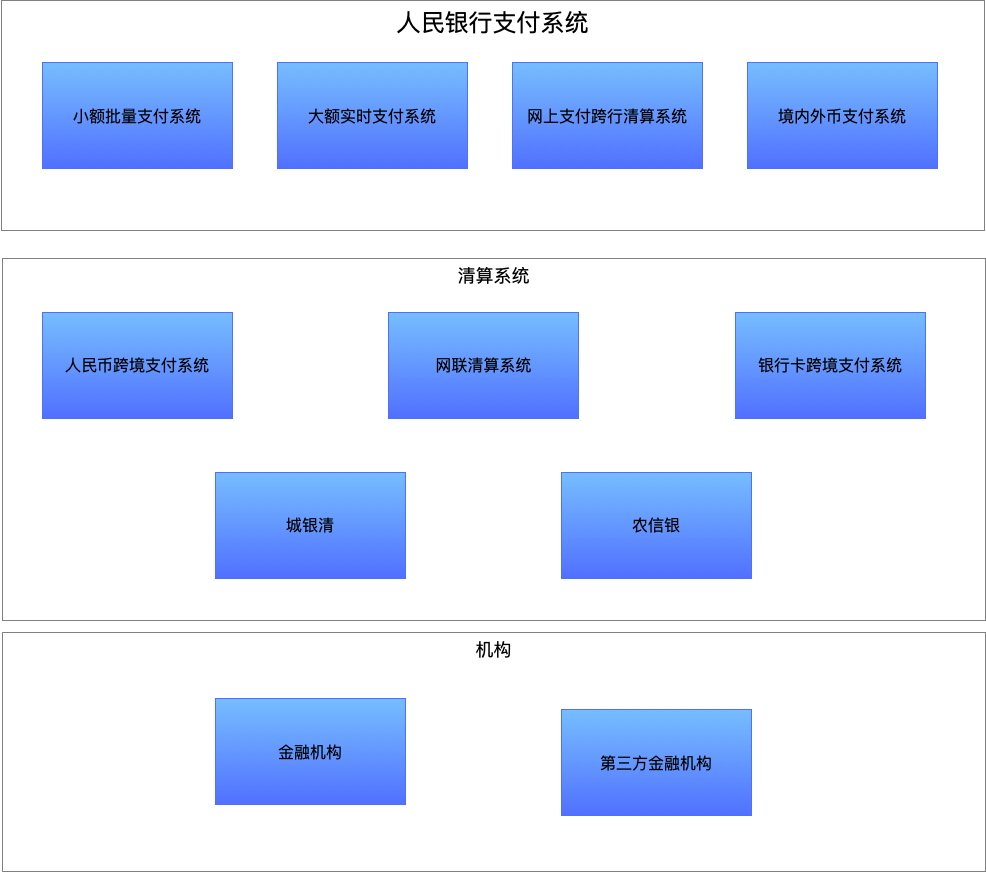
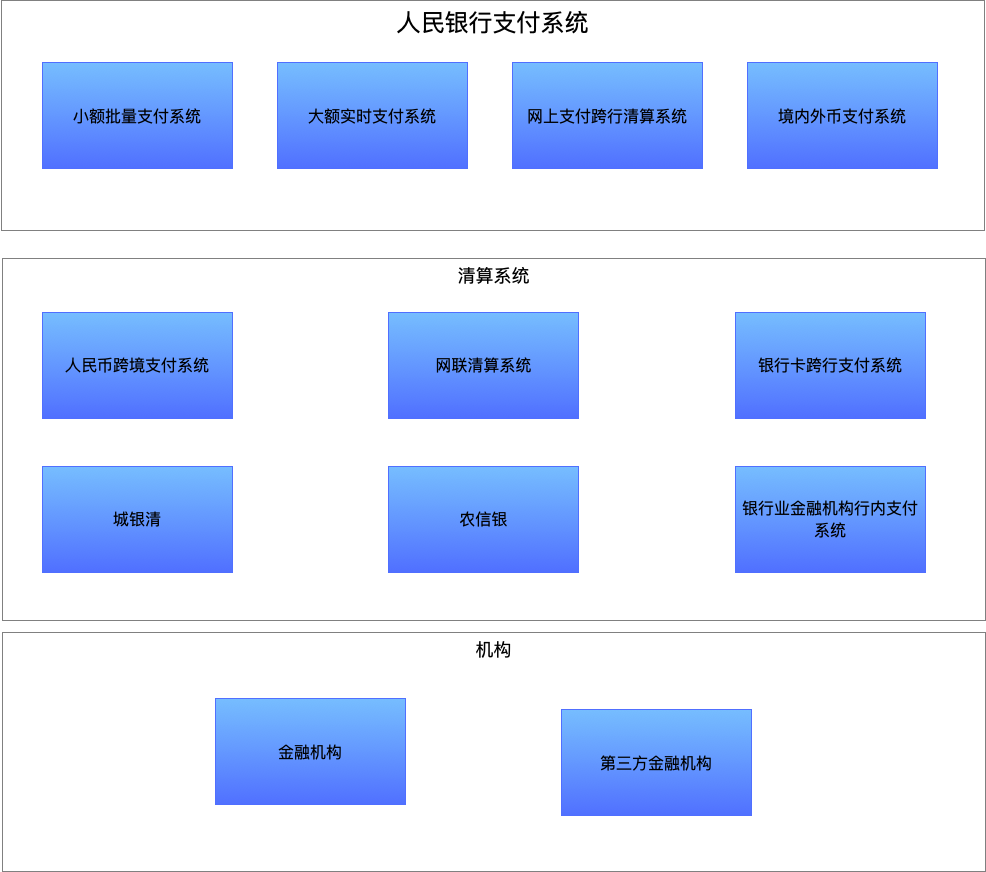
Site updated: 2020-09-09 20:58:25

Changed region(s): [[0.0304, 0.5264, 0.9432, 0.6812], [0.8215, 0.4025, 0.8519, 0.4335]]

diff --git a/Payment/payment-clearing-architecture/index.html b/Payment/payment-clearing-architecture/index.html
@@ -29,7 +29,7 @@
 <meta property="og:image" content="https://lianyouli.gitee.io/Payment/payment-clearing-architecture/%E6%94%AF%E4%BB%98%E7%B3%BB%E7%BB%9F.png">
 <meta property="og:image" content="https://lianyouli.gitee.io/Payment/payment-clearing-architecture/%E6%B8%85%E7%AE%97%E6%9C%BA%E6%9E%84%E6%9E%B6%E6%9E%84.png">
 <meta property="article:published_time" content="2020-08-23T14:50:25.000Z">
-<meta property="article:modified_time" content="2020-08-30T14:24:21.975Z">
+<meta property="article:modified_time" content="2020-09-09T12:56:48.538Z">
 <meta property="article:author" content="李联友">
 <meta property="article:tag" content="Payment">
 <meta name="twitter:card" content="summary">
@@ -209,7 +209,7 @@
                   <i class="far fa-calendar-check"></i>
                 </span>
                 <span class="post-meta-item-text">Edited on</span>
-                <time title="Modified: 2020-08-30 22:24:21" itemprop="dateModified" datetime="2020-08-30T22:24:21+08:00">2020-08-30</time>
+                <time title="Modified: 2020-09-09 20:56:48" itemprop="dateModified" datetime="2020-09-09T20:56:48+08:00">2020-09-09</time>
               </span>
             <span class="post-meta-item">
               <span class="post-meta-item-icon">
@@ -242,7 +242,51 @@
 <p>CIPS 是人民币国际化的重要部分</p>
 <p>其他清算系统也有美国运通一个位置了，因为美国运通也拿到清算牌照，正式营业了。</p>
 </blockquote>
-<p><img src="/Payment/payment-clearing-architecture/%E6%B8%85%E7%AE%97%E6%9C%BA%E6%9E%84%E6%9E%B6%E6%9E%84.png" alt="架构"></p>
+<p><img src="/Payment/payment-clearing-architecture/%E6%B8%85%E7%AE%97%E6%9C%BA%E6%9E%84%E6%9E%B6%E6%9E%84.png" alt="&#39;架构&#39;"></p>
+<p>这里这么多清算机构，是不是都懵圈了？ 在开始之前，先铺垫一点基础术语：</p>
+<ul>
+<li><p>实时</p>
+<p>每一笔交易都实时处理，即来一笔交易就处理一笔。</p>
+</li>
+<li><p>批量</p>
+<p>交易累积一段时间做处理。例如，累积一天做处理的叫做99批次；累积半天做处理的叫做13批次[13点]和23批次[23点]；还有每小时累积一次，那全天一共24个批次了。</p>
+</li>
+</ul>
+<p>现在简单概述一下央行的这四个主要的清算系统。</p>
+<h2 id="央行四大支付系统"><a href="#央行四大支付系统" class="headerlink" title="央行四大支付系统"></a>央行四大支付系统</h2><h3 id="大额实时支付系统"><a href="#大额实时支付系统" class="headerlink" title="大额实时支付系统"></a>大额实时支付系统</h3><p>大额是实时处理交易的；</p>
+<p>金融机构都会在央行大额支付系统里开立清算账户，然后其他清算系统基本上会在清算的批次时调用央行大额支付将钱从各个金融机构的清算账户上划付。</p>
+<blockquote>
+<p>另外，不要被名称中的大额给误导了，因为大额支付系统的金额起点为0。也就是说，1毛钱的生意也可以使用大额。</p>
+</blockquote>
+<h3 id="小额批量支付系统"><a href="#小额批量支付系统" class="headerlink" title="小额批量支付系统"></a>小额批量支付系统</h3><p>小额是批量处理交易的；</p>
+<p>主要是定位零售的，其实和美国的ACH [ <a href="https://baike.baidu.com/item/自动清算所系统/6889060?fr=aladdin" target="_blank" rel="noopener">Automated Clearing House</a>]类似，一些什么代发工资，代收水电煤气之类的缴费等等；</p>
+<p>是有金额上限限制的。</p>
+<h3 id="网上支付跨行清算系统"><a href="#网上支付跨行清算系统" class="headerlink" title="网上支付跨行清算系统"></a>网上支付跨行清算系统</h3><p>这个也叫做超级网银</p>
+<p>银行网银就是使用的这个系统。</p>
+<h3 id="境内外币支付系统"><a href="#境内外币支付系统" class="headerlink" title="境内外币支付系统"></a>境内外币支付系统</h3><p>这个满足国内对外币的需求，例如我们兑换美元，可以预约去中国银行兑换。</p>
+<h2 id="清算系统"><a href="#清算系统" class="headerlink" title="清算系统"></a>清算系统</h2><h3 id="人民币跨境支付系统"><a href="#人民币跨境支付系统" class="headerlink" title="人民币跨境支付系统"></a>人民币跨境支付系统</h3><p>这个和境内外币支付系统恰恰相反，其用来国外满足人民币的清算。这个是人民币走出去的关键一步。</p>
+<h3 id="城银清-amp-农信银"><a href="#城银清-amp-农信银" class="headerlink" title="城银清 &amp; 农信银"></a>城银清 &amp; 农信银</h3><p>这两个一个是为城市商业银行做清算的，一个是为农村合作信用社做清算的。</p>
+<h3 id="银行卡跨行支付系统"><a href="#银行卡跨行支付系统" class="headerlink" title="银行卡跨行支付系统"></a>银行卡跨行支付系统</h3><p>这个是银行卡跨行支付的系统，即参与方是多家不同的金融机构，也称之为本代他</p>
+<p>一般银行系统是不能直接处理其它银行的交易的，其中主要原因有两个方面，以A银行和B银行为例</p>
+<ol>
+<li><p>处理交易协议不同</p>
+<p>A银行发行的卡其处理逻辑基本上大体上是按照标准来的，例如ISO8583；但是，还有一些自定义的地方或者各家支持的业务也有所不同，各个银行实现是不同的，所以会导致处理失败。</p>
+</li>
+<li><p>资金积压严重</p>
+<p>及时第一点不是一个障碍，那么A银行发行的卡在B银行取款，那么为什么B银行要把钱给卡持有者呢？那么A就得在B银行开户，在B银行的账户上存钱，其钱叫做头寸。如果有10家机构或者100家机构或者更多呢？正如当时支付宝等支付机构在630‘断直连’之前都是一样的。所以会导致很多资金都在各个金融机构的账户里存着，白白浪费了资金的流动性。</p>
+</li>
+</ol>
+<p>解决上述两个方面的问题，有什么方案呢？现在通用的方案是</p>
+<ul>
+<li><p>同一种通信协议或者规范</p>
+<p>卡组织就是来做这个事情的，卡组织制定统一的规范，同时开发各种支付产品等等；这样大家就使用同一种通信规范，基本上可以跨越不同银行，做交易往来了。</p>
+</li>
+<li><p>在央行统一开立清算账户</p>
+<p>这样央行开立一个清算账户，里面存上钱，供资金划付使用。如果金融机构在账户里存的钱不够，可以同行拆借等等；这样就不用在各个金融机构里开立账户。</p>
+</li>
+</ul>
+<p>好了，银行卡跨行支付系统就是做这个事情的。</p>
+<h3 id="网联清算系统"><a href="#网联清算系统" class="headerlink" title="网联清算系统"></a>网联清算系统</h3><p>这个清算系统有点特殊，因为它的出现，网上有很多马云与银联故事。其实网上支付现在不一定是全部通过它的，其实也可以通过银联等跨行支付系统的；后面再详细讲讲它的业务类型。</p>
 
     </div>
 
@@ -342,6 +386,7 @@
 
       <!--noindex-->
       <div class="post-toc-wrap sidebar-panel">
+          <div class="post-toc motion-element"><ol class="nav"><li class="nav-item nav-level-2"><a class="nav-link" href="#央行四大支付系统"><span class="nav-number">1.</span> <span class="nav-text">央行四大支付系统</span></a><ol class="nav-child"><li class="nav-item nav-level-3"><a class="nav-link" href="#大额实时支付系统"><span class="nav-number">1.1.</span> <span class="nav-text">大额实时支付系统</span></a></li><li class="nav-item nav-level-3"><a class="nav-link" href="#小额批量支付系统"><span class="nav-number">1.2.</span> <span class="nav-text">小额批量支付系统</span></a></li><li class="nav-item nav-level-3"><a class="nav-link" href="#网上支付跨行清算系统"><span class="nav-number">1.3.</span> <span class="nav-text">网上支付跨行清算系统</span></a></li><li class="nav-item nav-level-3"><a class="nav-link" href="#境内外币支付系统"><span class="nav-number">1.4.</span> <span class="nav-text">境内外币支付系统</span></a></li></ol></li><li class="nav-item nav-level-2"><a class="nav-link" href="#清算系统"><span class="nav-number">2.</span> <span class="nav-text">清算系统</span></a><ol class="nav-child"><li class="nav-item nav-level-3"><a class="nav-link" href="#人民币跨境支付系统"><span class="nav-number">2.1.</span> <span class="nav-text">人民币跨境支付系统</span></a></li><li class="nav-item nav-level-3"><a class="nav-link" href="#城银清-amp-农信银"><span class="nav-number">2.2.</span> <span class="nav-text">城银清 &amp; 农信银</span></a></li><li class="nav-item nav-level-3"><a class="nav-link" href="#银行卡跨行支付系统"><span class="nav-number">2.3.</span> <span class="nav-text">银行卡跨行支付系统</span></a></li><li class="nav-item nav-level-3"><a class="nav-link" href="#网联清算系统"><span class="nav-number">2.4.</span> <span class="nav-text">网联清算系统</span></a></li></ol></li></ol></div>
       </div>
       <!--/noindex-->
 

diff --git a/Payment/payment-confirm-trx/index.html b/Payment/payment-confirm-trx/index.html
@@ -27,7 +27,7 @@
 <meta property="og:site_name" content="联友の周记">
 <meta property="og:description" content="确定一笔交易的要素如何确定一笔交易，在ISO8583协议里就已经明确的定义了下面四个域来唯一确定一笔交易  交易时间  - F7  收单机构 - F32 系统跟踪号 - F11 发送机构 - F33">
 <meta property="article:published_time" content="2020-05-29T12:22:09.000Z">
-<meta property="article:modified_time" content="2020-09-03T23:22:38.505Z">
+<meta property="article:modified_time" content="2020-09-03T23:32:39.480Z">
 <meta property="article:author" content="李联友">
 <meta property="article:tag" content="Payment">
 <meta name="twitter:card" content="summary">
@@ -206,7 +206,7 @@
                   <i class="far fa-calendar-check"></i>
                 </span>
                 <span class="post-meta-item-text">Edited on</span>
-                <time title="Modified: 2020-09-04 07:22:38" itemprop="dateModified" datetime="2020-09-04T07:22:38+08:00">2020-09-04</time>
+                <time title="Modified: 2020-09-04 07:32:39" itemprop="dateModified" datetime="2020-09-04T07:32:39+08:00">2020-09-04</time>
               </span>
             <span class="post-meta-item">
               <span class="post-meta-item-icon">
@@ -248,7 +248,8 @@
 <p>交易状态例如交易请求还是冲正，根据报文类型标识符来判断，交易请求是0200；交易冲正是0420；</p>
 <p>交易场景例如转账，可以根据交易处理码前2位判断是转账，转出转账还是转入转账。</p>
 <h2 id="限制"><a href="#限制" class="headerlink" title="限制"></a>限制</h2><p>从ISO8583协议里可以看到对上面四个域的定义，其中交易时间为月日时分秒，系统跟踪号为6位数字。那么理论上来说一秒钟内发送机构的最大交易峰值为100万笔。如果超过的话，发送机构可能需要卡在下一秒再处理上一秒未处理完的交易。</p>
-<p>不过大多数发送机构的交易处理能力都达不到这个标准，而且现阶段也很难达到交易峰值。</p>
+<!-- 不过大多数发送机构的交易处理能力都达不到这个标准，而且现阶段也很难达到交易峰值。-->
+
 <p>以前听坊间传闻说，银行和阿里对接时，发现最后交易瓶颈都因为银行的系统处理能力达到了上限；</p>
 <p>另外，从现在天猫双十一的交易情况来看，现在也没有超过100万笔上限，况且这些交易都还不是同一个发送机构；</p>
 <p>所以现阶段还是安全的。</p>

diff --git a/index.html b/index.html
@@ -201,7 +201,7 @@
                   <i class="far fa-calendar-check"></i>
                 </span>
                 <span class="post-meta-item-text">Edited on</span>
-                <time title="Modified: 2020-08-30 22:24:21" itemprop="dateModified" datetime="2020-08-30T22:24:21+08:00">2020-08-30</time>
+                <time title="Modified: 2020-09-09 20:56:48" itemprop="dateModified" datetime="2020-09-09T20:56:48+08:00">2020-09-09</time>
               </span>
             <span class="post-meta-item">
               <span class="post-meta-item-icon">

diff --git a/page/2/index.html b/page/2/index.html
@@ -201,7 +201,7 @@
                   <i class="far fa-calendar-check"></i>
                 </span>
                 <span class="post-meta-item-text">Edited on</span>
-                <time title="Modified: 2020-09-04 07:22:38" itemprop="dateModified" datetime="2020-09-04T07:22:38+08:00">2020-09-04</time>
+                <time title="Modified: 2020-09-04 07:32:39" itemprop="dateModified" datetime="2020-09-04T07:32:39+08:00">2020-09-04</time>
               </span>
             <span class="post-meta-item">
               <span class="post-meta-item-icon">

diff --git a/css/main.css b/css/main.css
@@ -1166,7 +1166,7 @@ pre .javascript .function {
 }
 .links-of-author a::before,
 .links-of-author span.exturl::before {
-  background: #4b9fc8;
+  background: #ff2898;
   border-radius: 50%;
   content: ' ';
   display: inline-block;
